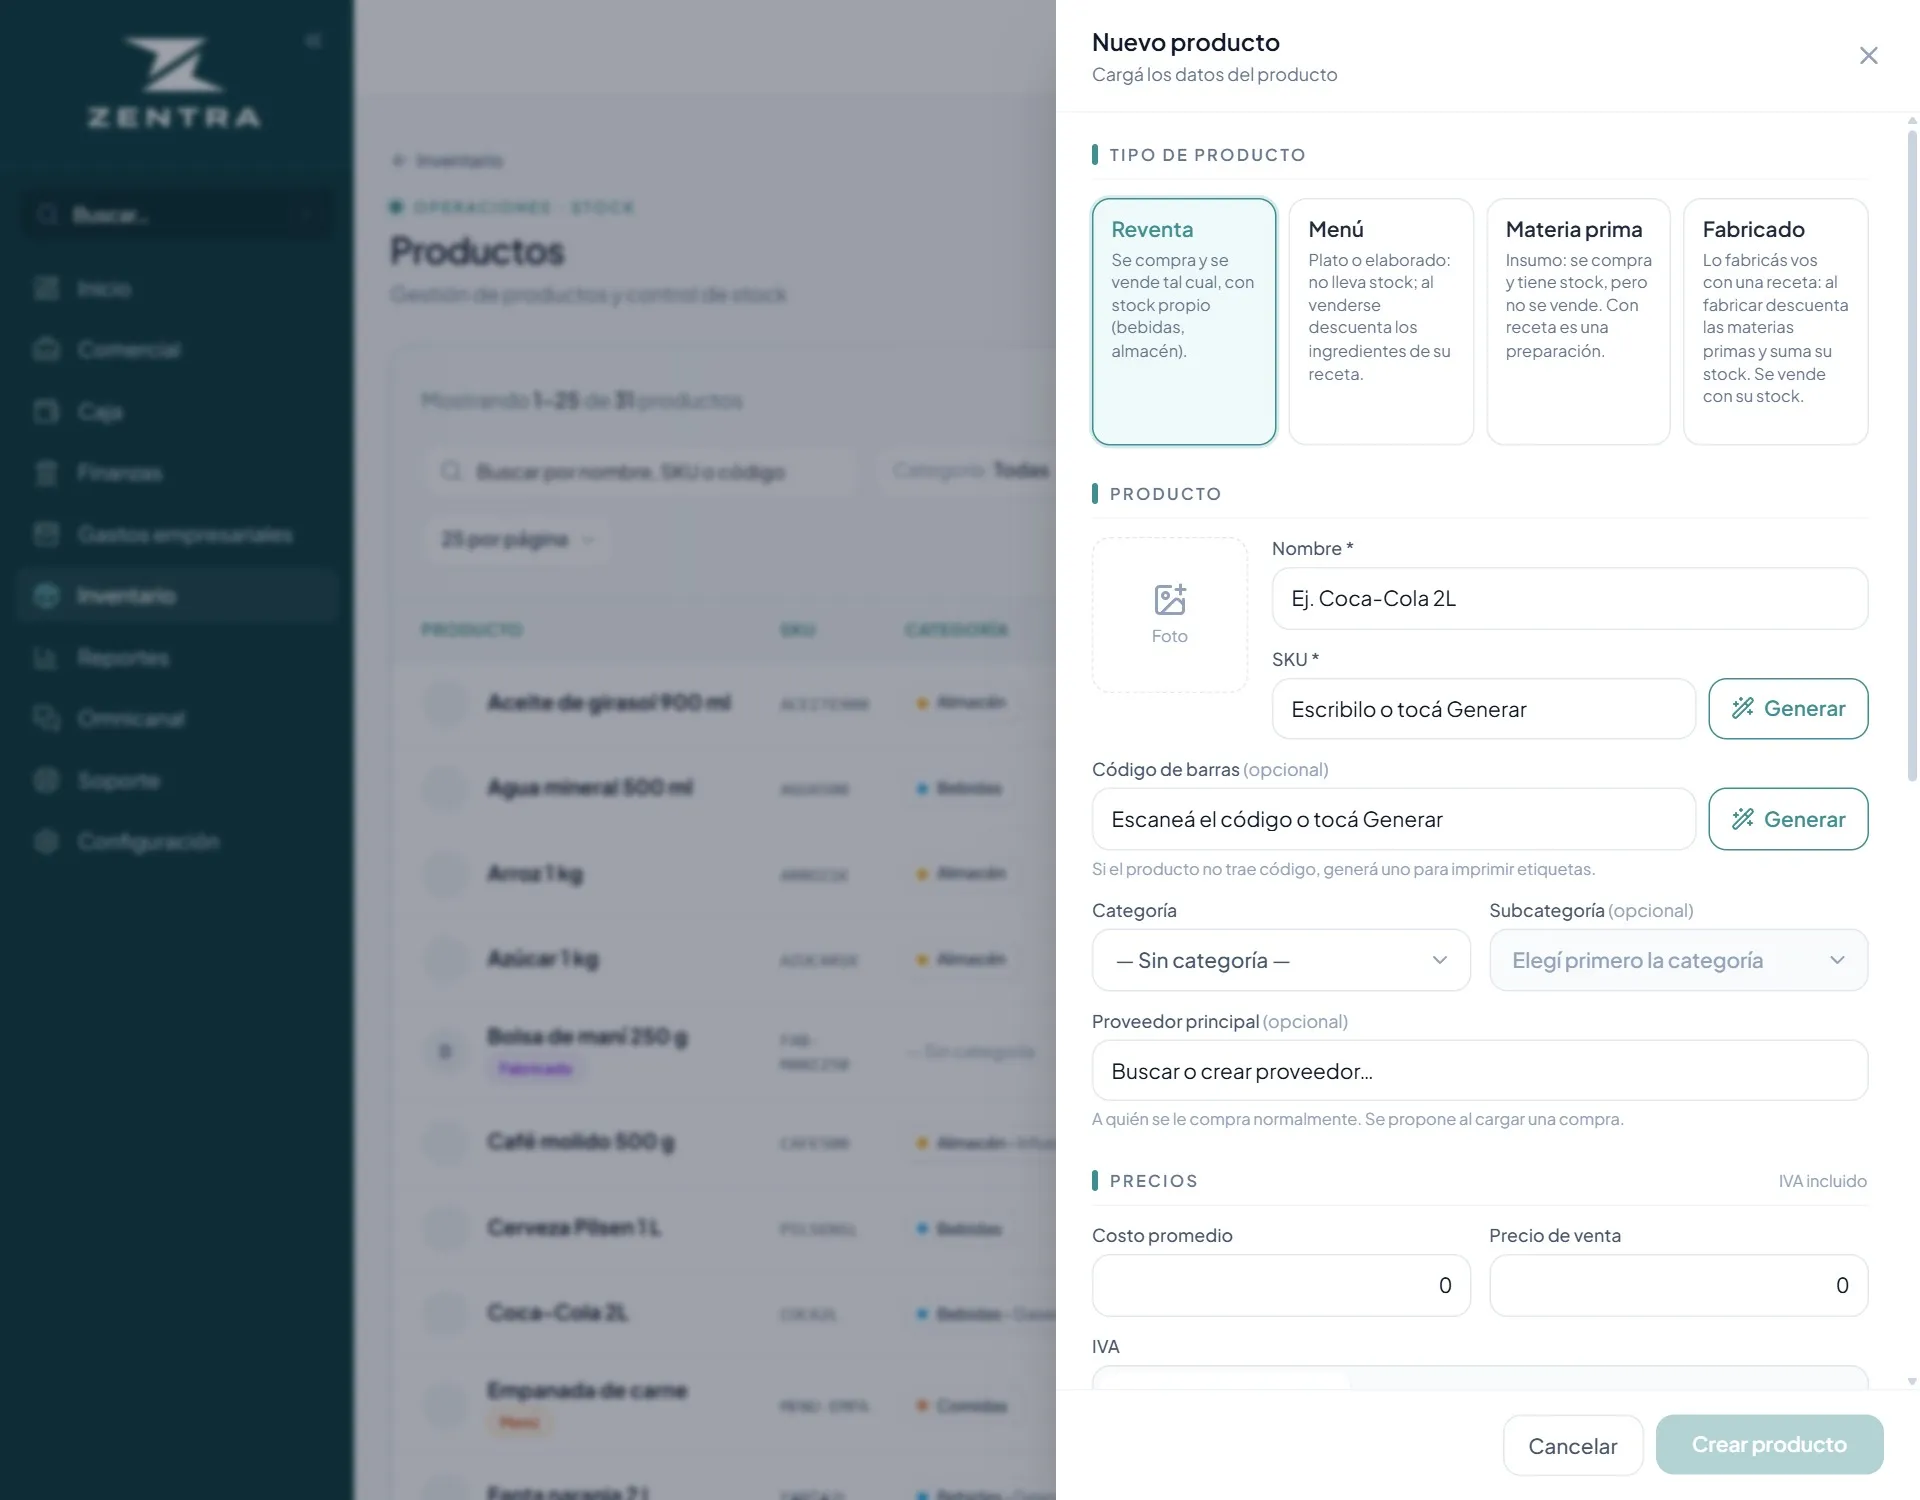
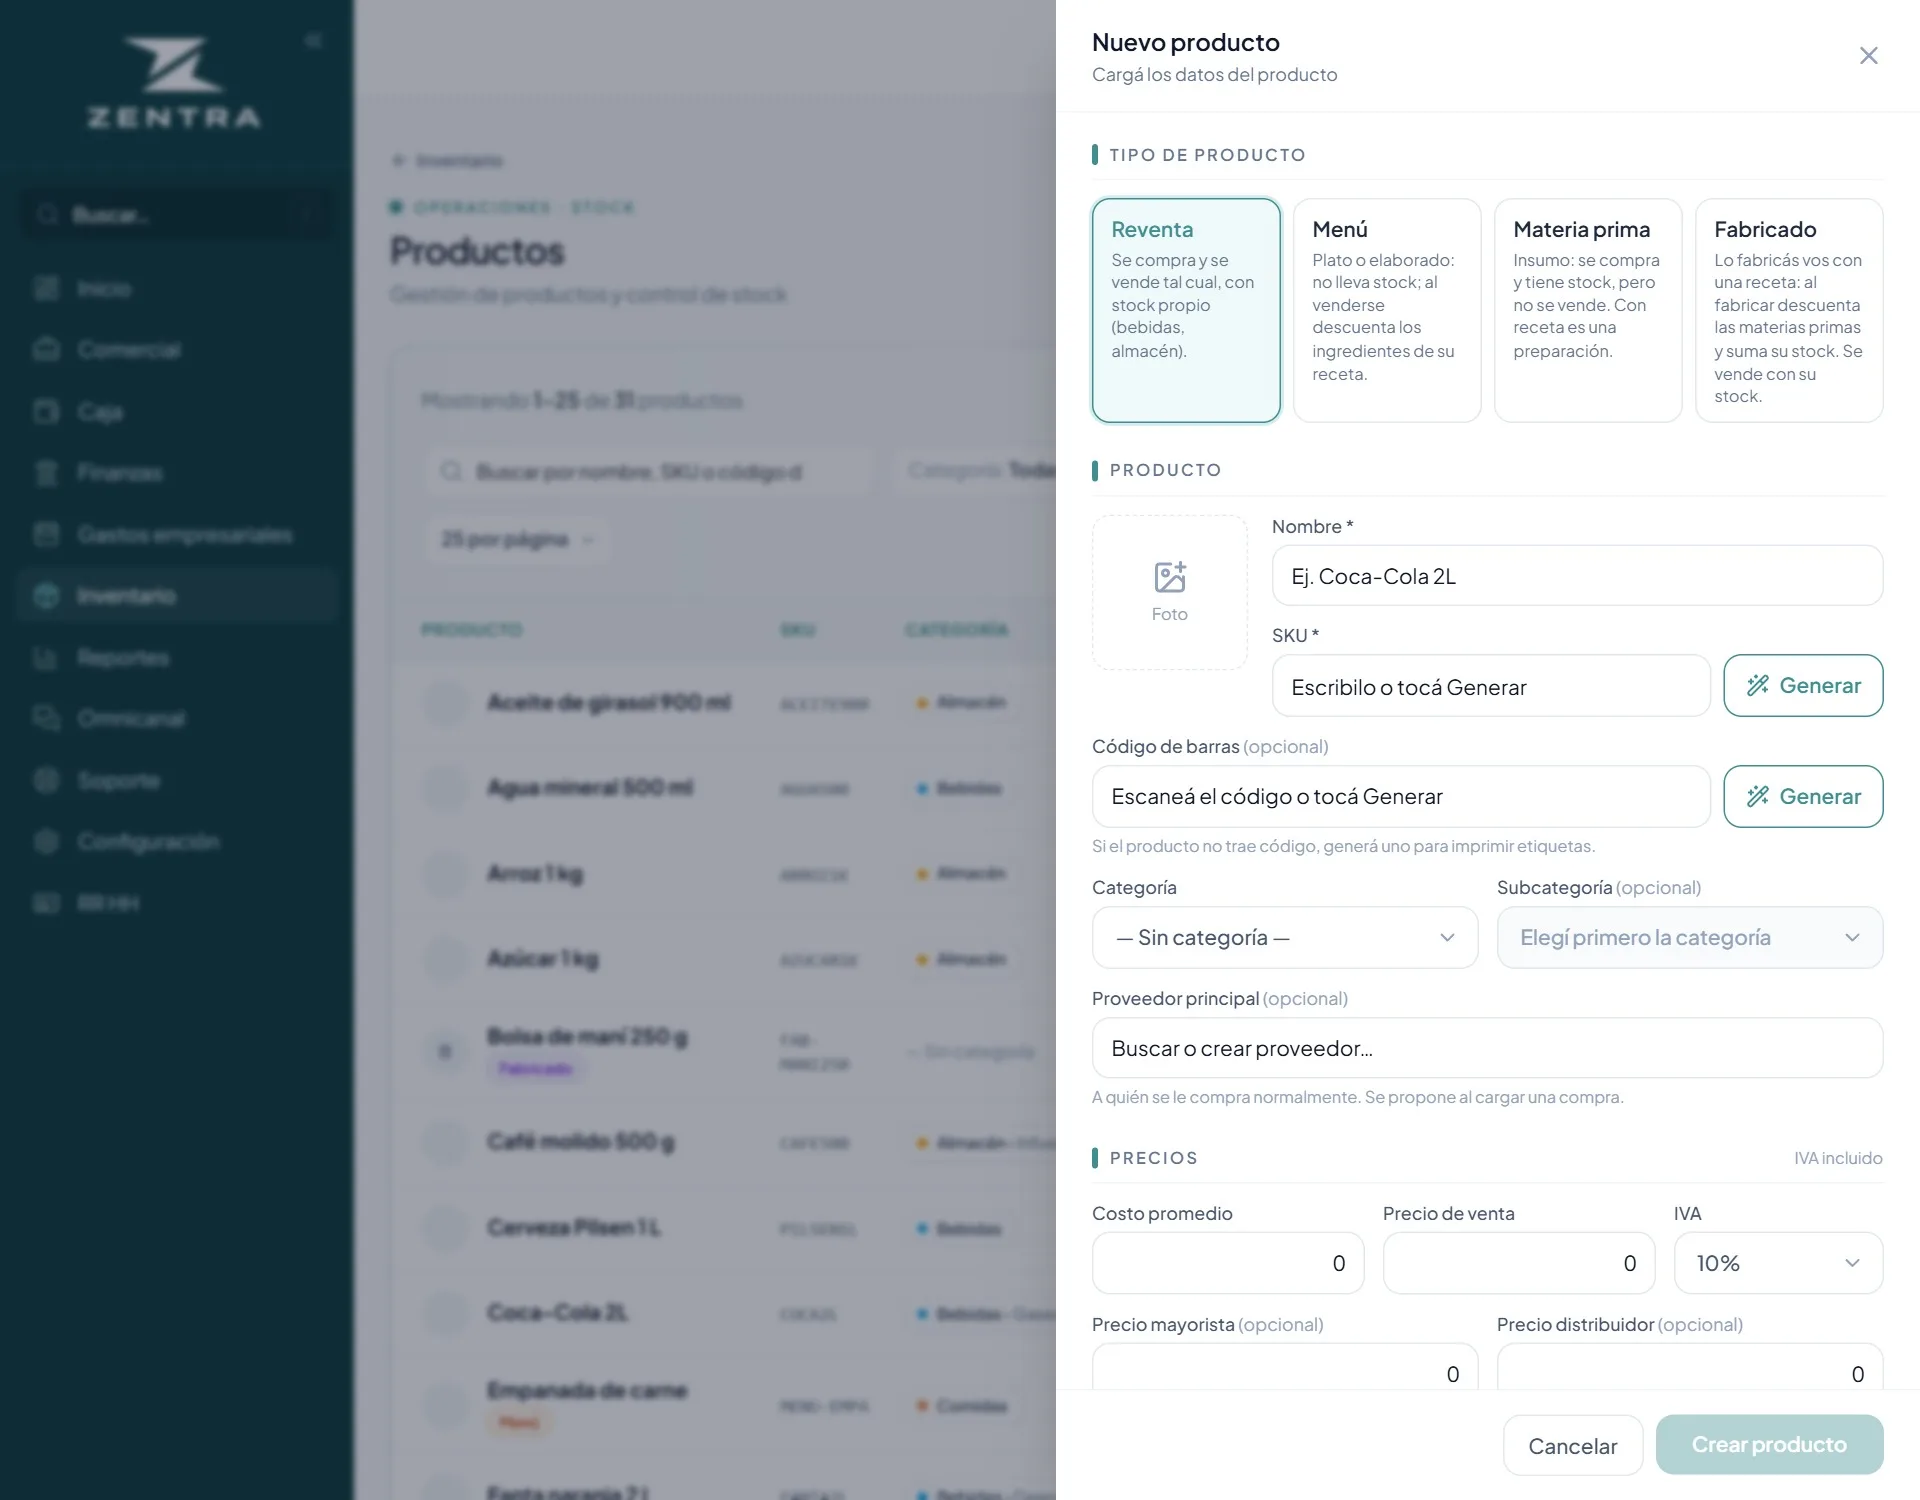
fix(2.0/manual): capturas al dia y lista de Personal sin nombres cortados
Capturas nuevas de Nuevo producto (IVA al lado del precio, los dos
rubros), de la ficha y del cambio de salario de RR HH (horas con el
selector propio) y de la lista de Personal. La lista muestra perfil y
sucursal en columnas recien desde 1280 px: a 1024 los nombres quedaban
en una letra.

diff --git a/src/app/(app)/rrhh/page.tsx b/src/app/(app)/rrhh/page.tsx
@@ -18,9 +18,9 @@ type Filtro = "todos" | "activos" | "faltan" | "inactivos";
 const iniciales = (nombre: string) => nombre.trim().split(/\s+/).slice(0, 2).map((p) => p[0]?.toUpperCase() ?? "").join("");
 
 /** Columna de la fila, solo en pantallas anchas. */
-function Columna({ titulo, valor, clase = "w-40" }: { titulo: string; valor: string; clase?: string }) {
+function Columna({ titulo, valor, clase = "w-32 2xl:w-40", desde = "xl:block" }: { titulo: string; valor: string; clase?: string; desde?: string }) {
   return (
-    <span className={`hidden min-w-0 shrink-0 lg:block ${clase}`}>
+    <span className={`hidden min-w-0 shrink-0 ${desde} ${clase}`}>
       <span className="block truncate text-sm text-slate-700">{valor}</span>
       <span className="block text-xs text-slate-500">{titulo}</span>
     </span>
@@ -36,12 +36,12 @@ function Fila({ p, hoy }: { p: PersonaFila; hoy: string }) {
         <span aria-hidden className={`grid h-10 w-10 shrink-0 place-items-center rounded-full text-sm font-semibold ${p.activo ? "bg-[var(--brand-50)] text-[var(--brand)]" : "bg-slate-100 text-slate-400"}`}>{iniciales(p.nombre)}</span>
         <span className="min-w-0 flex-1">
           <span className={`block truncate text-[15px] font-semibold ${p.activo ? "text-slate-900" : "text-slate-500"}`}>{p.nombre}</span>
-          {detalle ? <span className="mt-0.5 block truncate text-[13px] text-slate-500 lg:hidden">{detalle}</span> : null}
-          <span className="mt-0.5 hidden truncate text-[13px] text-slate-500 lg:block">{p.ci ? `CI ${p.ci}` : p.email ?? "Sin CI cargada"}</span>
+          {detalle ? <span className="mt-0.5 block truncate text-[13px] text-slate-500 xl:hidden">{detalle}</span> : null}
+          <span className="mt-0.5 hidden truncate text-[13px] text-slate-500 xl:block">{p.ci ? `CI ${p.ci}` : p.email ?? "Sin CI cargada"}</span>
         </span>
         <Columna titulo="Perfil" valor={p.perfil ?? "—"} />
         <Columna titulo="Sucursal" valor={p.sucursal ?? "Sin sucursal fija"} />
-        <Columna titulo="Área" valor={p.area ?? "—"} clase="w-32" />
+        <Columna titulo="Área" valor={p.area ?? "—"} clase="w-32" desde="2xl:block" />
         {conDatos ? (
           <span className="hidden w-36 shrink-0 md:block">
             <span className="block truncate text-sm text-slate-700">{p.fecha_ingreso ? textoAntiguedad(antiguedad(p.fecha_ingreso, p.fecha_egreso && p.fecha_egreso < hoy ? p.fecha_egreso : hoy)) : "—"}</span>
